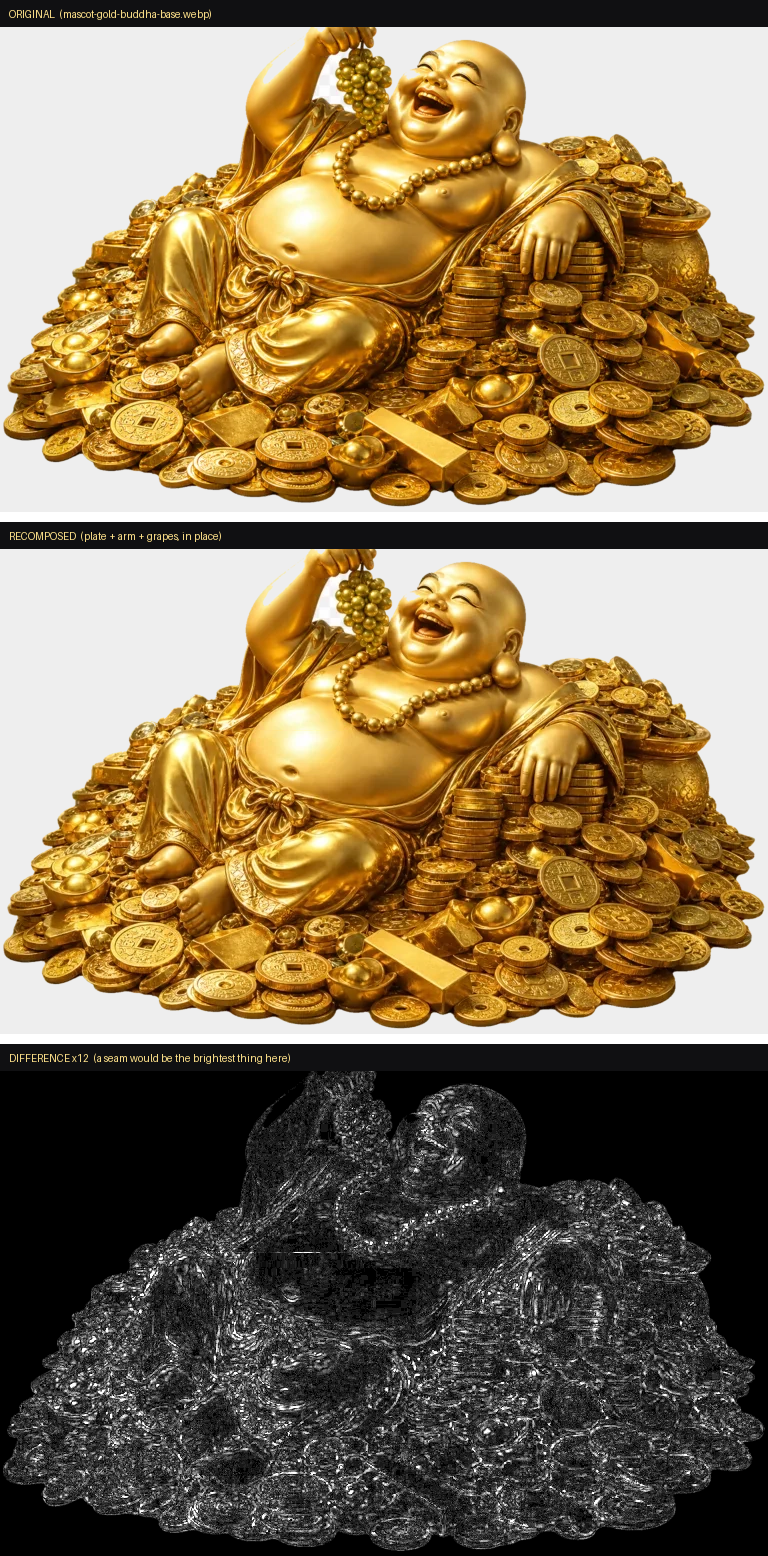
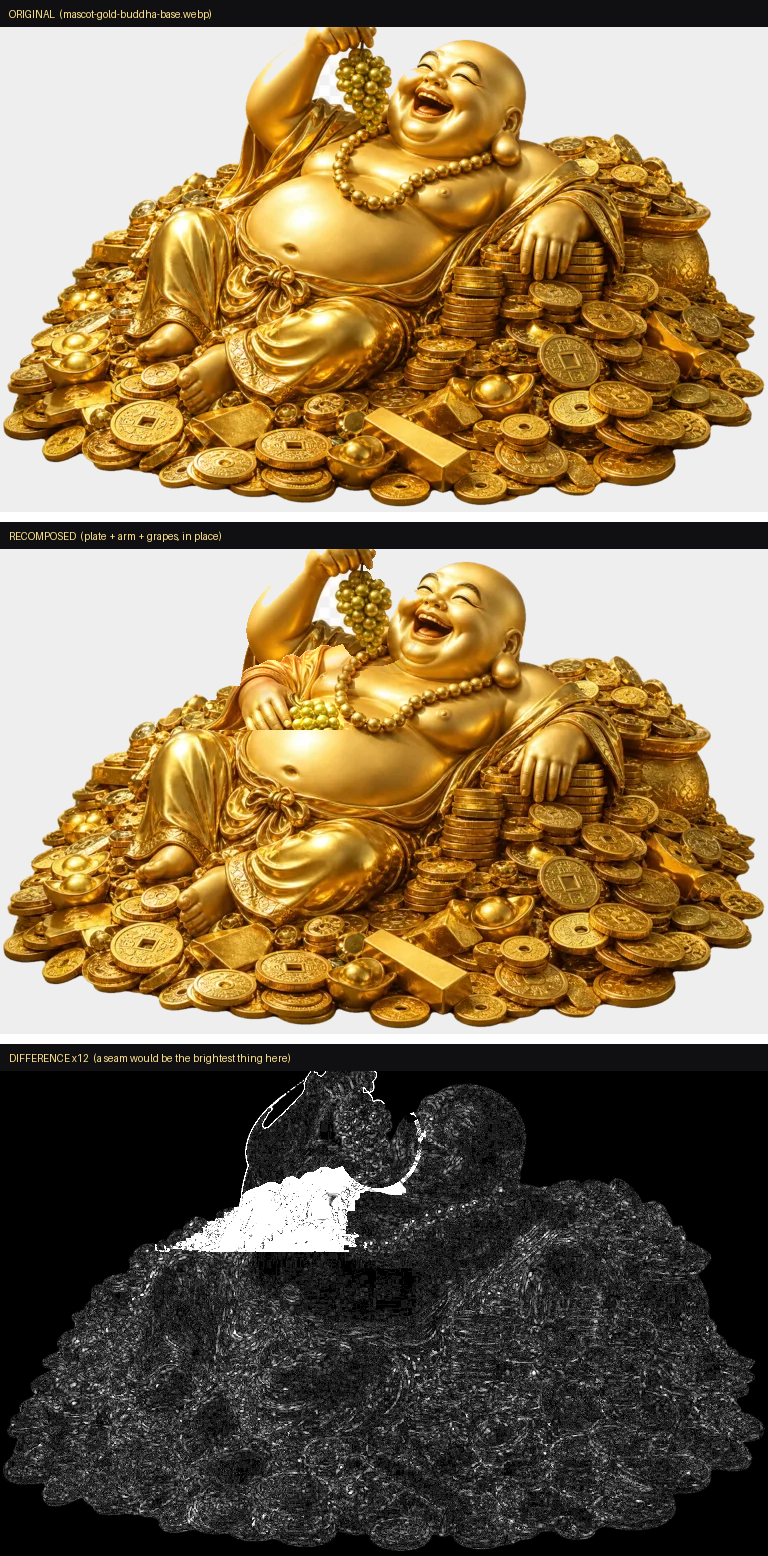
Wire the accepted reconstruction into the served scene
scene-parts.py stamps the accepted keyform delivery (docs/evidence/
round56/keyform-package DELIVERY paints + masks) into the parts it
writes, so production shows the painted hidden art instead of the
interim low-frequency fill:

- painted holes (4,681 px at plate scale) + the whole PLATE_REGION fill
  (10,767 px) now carry the accepted content: the master's own drape,
  chest, necklace and coin band, with the delivery's paint in the holes
- THE MASTER AND THE SERVED STATES ARE TWO GENERATIONS (measured:
  interiors ~12/255 apart, p99 52), so the stamp applies the same
  low-frequency light match the file already uses across generations
  (blur24 ratio, clipped 0.80-1.35); structure rides at full contrast
- under the grape cluster the 2,454 hole px of the Jacobi hand rebuild
  give way to the delivery's paint where the holes reach
- audited: part-arm-raised changed 2,451 drawn px, ALL inside the
  accepted hole set; plate changes = holes + fill region only; rest
  composition exact (0.07 dB vs encoder floor, no seam along the cut,
  THE GAP 0 at -7/-15); belly-patch metric improves (7.94 -> 5.00)

Why the fill move is safe: the rig's removed-arm footprint equals the
interim-gold+void+checker hole set (rig clean-plate vs master: figure
substitutions outside holes are sub-20-unit pale-page tweaks only), so
every raised-arm pixel of the master lies inside the painted holes -
the stamp cannot ghost the arm it replaces.
[…]

diff --git a/app/public/mascot-wiring-preview.html b/app/public/mascot-wiring-preview.html
@@ -1,0 +1,111 @@
+<!doctype html>
+<html lang="en">
+<head>
+<meta charset="utf-8">
+<meta name="viewport" content="width=device-width, initial-scale=1">
+<title>Buddha wiring preview — accepted reconstruction, served parts</title>
+<link rel="stylesheet" href="styles.css">
+<style>
+  /* HARNESS ONLY: freeze the animation at the pose each panel names. The card
+     itself animates; this page pins keyframe moments so they can be inspected. */
+  .mascot-layer * { animation: none !important; }
+  .panel { display: inline-block; vertical-align: top; margin: 14px; }
+  .panel h2 { font: 600 13px/1.4 system-ui, sans-serif; margin: 0 0 6px; }
+  .cardish { position: relative; width: 230px; height: 172px; border-radius: 12px;
+             background: linear-gradient(160deg, #2b2118, #17120c); overflow: hidden; }
+  /* THE REACH POSE = keyframe 62.5% of buddha-reach, verbatim from styles.css:
+     the arm at -15deg about the shoulder and the anchor stepped aside. */
+  .pose-reach .mascot-arm { transform: rotate(-15deg); }
+  .pose-reach .mascot-part--anchor { opacity: 0; }
+  .pose-swing .mascot-grapes { transform: rotate(5deg); }
+</style>
+</head>
+<body style="margin:20px;background:#101010;color:#eee;font-family:system-ui,sans-serif">
+<h1 style="font-size:16px">Golden Buddha — layered scene with the accepted hidden reconstruction
+(served files, this directory's <code>img/cosmetics/</code>)</h1>
+<p style="max-width:760px;font-size:13px;color:#bbb">Rest must read as one continuous artwork with no
+seam at the shoulder; reach (−15°, anchor stepped aside) must show the painted chest, drape and
+necklace behind the arm — no flat patch, no tear; grape swing must not open holes in the hand.</p>
+
+<div class="panel">
+  <h2>REST — 172px (the card's drawn size)</h2>
+  <div class="cardish"><span class="mascot-layer" data-motif="buddha-gold" aria-hidden="true">
+    <span class="mascot-world">
+      <img class="mascot-part mascot-part--plate" src="img/cosmetics/part-plate-armless.webp" alt="">
+      <img class="mascot-part mascot-part--chest" src="img/cosmetics/part-chest-breath.webp" alt="">
+      <img class="mascot-part mascot-part--belly" src="img/cosmetics/part-arm-lowered.webp" alt="">
+      <img class="mascot-part mascot-part--blink" src="img/cosmetics/part-eye-blink.webp" alt="">
+      <img class="mascot-part mascot-part--anchor" src="img/cosmetics/part-arm-anchor.webp" alt="">
+      <span class="mascot-arm">
+        <img class="mascot-part mascot-part--arm" src="img/cosmetics/part-arm-raised.webp" alt="">
+        <span class="mascot-grapes">
+          <img class="mascot-part mascot-part--berries" src="img/cosmetics/part-grapes-raised.webp" alt="">
+        </span>
+      </span>
+      <span class="mascot-shimmer"></span>
+    </span>
+  </span></div>
+</div>
+
+<div class="panel">
+  <h2>REST — 344px (2×, for the seam check)</h2>
+  <div class="cardish" style="width:460px;height:344px"><span class="mascot-layer" data-motif="buddha-gold" aria-hidden="true">
+    <span class="mascot-world" style="width:344px;height:228px">
+      <img class="mascot-part mascot-part--plate" src="img/cosmetics/part-plate-armless.webp" alt="">
+      <img class="mascot-part mascot-part--chest" src="img/cosmetics/part-chest-breath.webp" alt="">
+      <img class="mascot-part mascot-part--belly" src="img/cosmetics/part-arm-lowered.webp" alt="">
+      <img class="mascot-part mascot-part--blink" src="img/cosmetics/part-eye-blink.webp" alt="">
+      <img class="mascot-part mascot-part--anchor" src="img/cosmetics/part-arm-anchor.webp" alt="">
+      <span class="mascot-arm">
+        <img class="mascot-part mascot-part--arm" src="img/cosmetics/part-arm-raised.webp" alt="">
+        <span class="mascot-grapes">
+          <img class="mascot-part mascot-part--berries" src="img/cosmetics/part-grapes-raised.webp" alt="">
+        </span>
+      </span>
+      <span class="mascot-shimmer"></span>
+    </span>
+  </span></div>
+</div>
+
+<div class="panel">
+  <h2>REACH −15°, anchor stepped aside (keyframe 62.5%) — 344px</h2>
+  <div class="cardish pose-reach" style="width:460px;height:344px"><span class="mascot-layer" data-motif="buddha-gold" aria-hidden="true">
+    <span class="mascot-world" style="width:344px;height:228px">
+      <img class="mascot-part mascot-part--plate" src="img/cosmetics/part-plate-armless.webp" alt="">
+      <img class="mascot-part mascot-part--chest" src="img/cosmetics/part-chest-breath.webp" alt="">
+      <img class="mascot-part mascot-part--belly" src="img/cosmetics/part-arm-lowered.webp" alt="">
+      <img class="mascot-part mascot-part--blink" src="img/cosmetics/part-eye-blink.webp" alt="">
+      <img class="mascot-part mascot-part--anchor" src="img/cosmetics/part-arm-anchor.webp" alt="">
+      <span class="mascot-arm">
+        <img class="mascot-part mascot-part--arm" src="img/cosmetics/part-arm-raised.webp" alt="">
+        <span class="mascot-grapes">
+          <img class="mascot-part mascot-part--berries" src="img/cosmetics/part-grapes-raised.webp" alt="">
+        </span>
+      </span>
+      <span class="mascot-shimmer"></span>
+    </span>
+  </span></div>
+</div>
+
+<div class="panel">
+  <h2>GRAPE SWING +5° (keyframe 34%) — 344px</h2>
+  <div class="cardish pose-swing" style="width:460px;height:344px"><span class="mascot-layer" data-motif="buddha-gold" aria-hidden="true">
+    <span class="mascot-world" style="width:344px;height:228px">
+      <img class="mascot-part mascot-part--plate" src="img/cosmetics/part-plate-armless.webp" alt="">
+      <img class="mascot-part mascot-part--chest" src="img/cosmetics/part-chest-breath.webp" alt="">
+      <img class="mascot-part mascot-part--belly" src="img/cosmetics/part-arm-lowered.webp" alt="">
+      <img class="mascot-part mascot-part--blink" src="img/cosmetics/part-eye-blink.webp" alt="">
+      <img class="mascot-part mascot-part--anchor" src="img/cosmetics/part-arm-anchor.webp" alt="">
+      <span class="mascot-arm">
+        <img class="mascot-part mascot-part--arm" src="img/cosmetics/part-arm-raised.webp" alt="">
+        <span class="mascot-grapes">
+          <img class="mascot-part mascot-part--berries" src="img/cosmetics/part-grapes-raised.webp" alt="">
+        </span>
+      </span>
+      <span class="mascot-shimmer"></span>
+    </span>
+  </span></div>
+</div>
+
+</body>
+</html>

diff --git a/app/scripts/scene-parts.py b/app/scripts/scene-parts.py
@@ -334,6 +334,100 @@ plate_rgb = np.clip(np.asarray(base_q.convert("RGB")).astype(np.float32) * (~(M 
 # softness.
 plate_a = np.where(M & SOLID, A_rq, np.where(M, 0.0, A_bq))
 
+# ── 2.5 THE HIDDEN RECONSTRUCTION, FROM THE ACCEPTED DELIVERY ───────────────
+# The fill above answers "what is behind the arm?" with the arm-down state — a
+# second generation's body, low-frequency matched. The keyform package
+# (docs/evidence/round56/keyform-package) holds the accepted answer painted
+# from the artwork itself: DELIVERY/R0X-paint.png at manifest template
+# geometry, 1536x1024 — one painted reconstruction for every pixel the limb's
+# gestures can uncover, accepted by the numeric gate AND the 1x/2x/4x eye
+# (see DELIVERY/STATUS.md). This stamps that artwork into the plate, so the
+# served scene shows the same hidden art the evidence shows. The rules it
+# keeps:
+#
+#   * ONLY THE HOLES. `R0X-mask.npy` minus `SKY-page-belongs.npy` is the exact
+#     accepted set (18,998 px at 1536); not one pixel outside it is touched.
+#   * THE PAGE STAYS THE PAGE. Sky-class pixels are excluded: where the
+#     artwork says open air, the plate stays transparent.
+#   * SOLID ONLY. Stamps land on `M & SOLID` — pixels the resting limb covers
+#     opaquely — so the resting composite's algebra (a + p(1-a) = a) is
+#     untouched and the stamp is invisible at rest by construction. The soft
+#     rim stays thin: an opaque plate pixel under a partial limb alpha would
+#     hard the limb's own antialiased edge.
+#   * MAJORITY GEOMETRY. The 1536 masks come down to the plate's 768x512 by
+#     box average cut at half — the same MATTE convention every mask in this
+#     file uses.
+#
+# What shows at rest is unchanged; what shows when the limb turns is now the
+# accepted reconstruction instead of a second generation's approximation.
+import json as _json
+_KF = os.path.join(HERE, "..", "..", "docs", "evidence", "round56", "keyform-package")
+_KF_MANIFEST = _json.load(open(os.path.join(_KF, "manifest.json")))
+_KF_SKY = np.load(os.path.join(_KF, "SKY-page-belongs.npy")) > 0
+_KF_HOLES = np.zeros((1024, 1536), bool)
+_KF_PAINT = np.zeros((1024, 1536, 4), np.uint8)
+for _r in _KF_MANIFEST:
+    _KF_HOLES |= np.load(os.path.join(_KF, _r["id"] + "-mask.npy")) > 0
+    _p = np.asarray(Image.open(os.path.join(_KF, "DELIVERY", _r["id"] + "-paint.png")).convert("RGBA"))
+    _ox, _oy = _r["template_offset"]
+    _KF_PAINT[_oy:_oy + _p.shape[0], _ox:_ox + _p.shape[1]] = _p
+
+
+def _half_mask(_m):
+    return np.asarray(Image.fromarray((_m * 255).astype(np.uint8)).resize((W, H), Image.BOX)) >= 128
+
+
+ART7 = np.asarray(Image.fromarray(_KF_PAINT).resize((W, H), Image.BOX))
+ART_HOLES = _half_mask(_KF_HOLES) & ~_half_mask(_KF_SKY)
+ART_STAMP_PLATE = ART_HOLES & M & SOLID
+plate_a = np.where(ART_STAMP_PLATE, 1.0, plate_a)
+
+# And EVERYWHERE the low-frequency fill replaced body the rig kept as the
+# artwork's own drawing. The accepted rig plate (rig/clean-plate.webp) differs
+# from the master inside the figure only in the painted holes plus sub-20-unit
+# tweaks on pale page-pattern px — so the accepted content behind the limb is
+# the master's own drape and chest, with the delivery's paint inside the holes.
+# This plate's fill region (PLATE_REGION) was filled from the arm-down state
+# instead: a second generation's approximation that reads flat at 2x once the
+# anchor steps aside at full reach. The master's raised-arm pixels all lie
+# INSIDE the painted holes (the rig's removed-arm footprint is exactly the
+# interim-gold + void + checker hole set), so stamping the accepted content
+# across PLATE_REGION cannot ghost the arm: its own px are overwritten by the
+# paints everywhere they exist. Alpha algebra is untouched — this changes what
+# the fill LOOKS like, not what it COVERS.
+_KF_ACCEPTED = np.asarray(Image.open(os.path.join(HERE, "..", "public", "img",
+                                                  "cosmetics", "mascot-gold-buddha-base.png")).convert("RGB"))
+_KF_ACC = _KF_ACCEPTED.copy()
+_KF_ACC[_KF_HOLES & ~_KF_SKY] = _KF_PAINT[_KF_HOLES & ~_KF_SKY, :3]
+ACC7 = np.asarray(Image.fromarray(_KF_ACC).resize((W, H), Image.BOX)).astype(np.float32)
+
+# THE MASTER AND THE SERVED STATES ARE TWO GENERATIONS. The 1536 master the
+# delivery was painted against and the 768 webp the card serves are separate
+# renders of the same figure — measured, their interiors sit ~12/255 apart
+# (p99 52). Stamped raw, the accepted content would arrive a generation out of
+# light against the plate and arm beside it: structure in place, lighting
+# discontinuous. So the stamp takes the same low-frequency match this file
+# already applies when it moves a body between generations (the chest, the
+# plate fill): the accepted content's low frequency is pulled onto the served
+# artwork's, clipped to the same 0.80-1.35 band, and every fold, bead, highlight
+# and painted stroke rides through untouched at full contrast.
+ACC_LO = np.asarray(blur_low(Image.fromarray(_KF_ACC.astype(np.uint8)).resize((W, H), Image.BOX), 24)).astype(np.float32)
+ART_LO = np.asarray(blur_low(Image.fromarray(_KF_PAINT).resize((W, H), Image.BOX), 24)).astype(np.float32)[..., :3]
+_ratio_acc = np.clip((lo_b + 8.0) / (ACC_LO + 8.0), 0.80, 1.35)
+_ratio_art = np.clip((lo_b + 8.0) / (ART_LO + 8.0), 0.80, 1.35)
+ACC7 = np.clip(ACC7 * _ratio_acc, 0, 255)
+ART7 = np.clip(ART7[..., :3].astype(np.float32) * _ratio_art, 0, 255).astype(np.uint8)
+
+ART_STAMP_FILL = PLATE_REGION
+plate_rgb[ART_STAMP_FILL] = ACC7[..., :3][ART_STAMP_FILL]
+# the painted holes themselves (same matched content; supersedes any fill px)
+plate_rgb[ART_STAMP_PLATE] = ACC7[..., :3][ART_STAMP_PLATE]
+print(f"   hidden art (delivery stamp): {int(ART_HOLES.sum())} hole px at plate scale; "
+      f"{int(ART_STAMP_PLATE.sum())} stamped into the plate; "
+      f"{int((_half_mask(_KF_HOLES) & _half_mask(_KF_SKY)).sum())} sky-class stay page; "
+      f"{int((ART_HOLES & ~M).sum())} are the limb's own footprint px (not plate)")
+print(f"   fill region re-anchored to the accepted content: {int(ART_STAMP_FILL.sum())} px")
+
 plate = Image.merge("RGBA", (*[Image.fromarray(plate_rgb[:, :, c].astype(np.uint8)) for c in range(3)],
                              Image.fromarray((plate_a * 255).round().astype(np.uint8))))
 
@@ -407,6 +501,16 @@ else:
 
 # The arm keeps the artwork's OWN alpha where the artwork shows it — the whole
 # footprint EXCEPT the cluster's soft rim.
+
+# The same delivery stamp where the arm itself was rebuilt: under the grape
+# cluster the hidden pixels are a Jacobi diffusion (the one sanctioned
+# invention above); the accepted delivery painted those same pixels from the
+# artwork's own continuation, so where its holes reach the rebuilt patch the
+# diffusion gives way to the delivery. At rest the cluster covers every one of
+# these pixels opaquely, so this stamp is also invisible in the resting pose.
+ART_STAMP_ARM = ART_HOLES & hidden & SOLID
+base_rgb_rebuilt[ART_STAMP_ARM] = ART7[..., :3][ART_STAMP_ARM]
+print(f"   hidden art under the grapes: {int(ART_STAMP_ARM.sum())} px of the rebuilt hand")
 #
 # That exception is the whole subtlety, and getting it wrong cost a measured
 # regression (max 42 -> 66, pixels over 32 more than doubled) before the test
